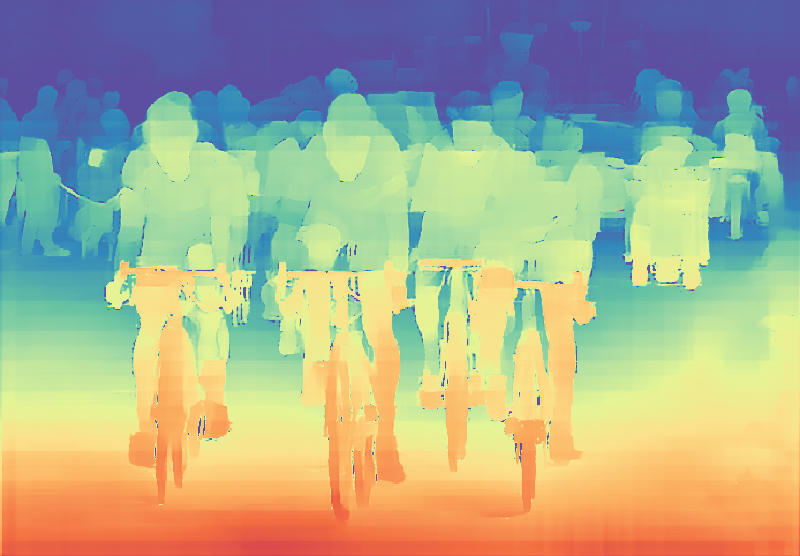
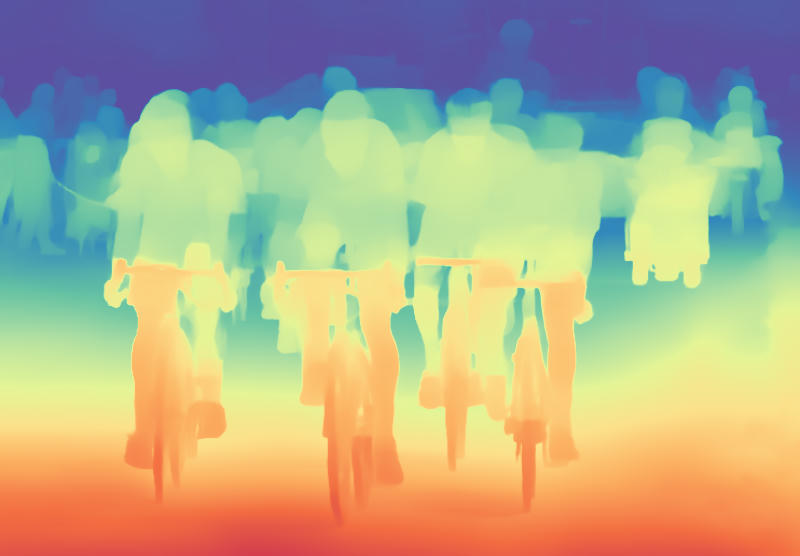
add bilinear upsample for CPU

diff --git a/candle-core/src/cpu_backend/mod.rs b/candle-core/src/cpu_backend/mod.rs
@@ -447,6 +447,70 @@ impl Map1 for UpsampleNearest2D {
     }
 }
 
+struct UpsampleBilinear2D(usize, usize, bool);
+
+
+impl Map1 for UpsampleBilinear2D {
+    fn f<T: WithDType>(&self, src: &[T], layout: &Layout) -> Result<Vec<T>> {
+        let (dst_h, dst_w) = (self.0, self.1);
+        let (b_sz, c, src_h, src_w) = layout.shape().dims4()?;
+        let stride = layout.stride();
+        let (stride_h, stride_w) = (stride[2], stride[3]);
+        let src_index = layout.start_offset();
+
+        let (scale_h, scale_w) = if self.2 {
+            ((src_h - 1) as f64 / (dst_h - 1) as f64, (src_w - 1) as f64 / (dst_w - 1) as f64)
+        } else {
+            (src_h as f64 / dst_h as f64, src_w as f64 / dst_w as f64)
+        };
+
+        let mut dst = vec![T::zero(); b_sz * c * dst_h * dst_w];
+
+        for b_idx in 0..b_sz {
+            let dst = &mut dst[b_idx * c * dst_h * dst_w..];
+            let src_index = src_index + b_idx * stride[0];
+            for c_idx in 0..c {
+                let dst = &mut dst[c_idx * dst_h * dst_w..];
+                let src_index = src_index + c_idx * stride[1];
+                for h_idx in 0..dst_h {
+                    for w_idx in 0..dst_w {
+                        let src_h_pos = if self.2 {
+                            (h_idx as f64 * scale_h).min(src_h as f64 - 1.0)
+                        } else {
+                            ((h_idx as f64 + 0.5) * scale_h - 0.5).min(src_h as f64 - 1.0).max(0.0)
+                        };
+                        let src_w_pos = if self.2 {
+                            (w_idx as f64 * scale_w).min(src_w as f64 - 1.0)
+                        } else {
+                            ((w_idx as f64 + 0.5) * scale_w - 0.5).min(src_w as f64 - 1.0).max(0.0)
+                        };
+
+                        let src_h_low = src_h_pos.floor() as usize;
+                        let src_w_low = src_w_pos.floor() as usize;
+                        let src_h_high = (src_h_low + 1).min(src_h - 1);
+                        let src_w_high = (src_w_low + 1).min(src_w - 1);
+
+                        let lh = src_h_pos - src_h_low as f64;
+                        let lw = src_w_pos - src_w_low as f64;
+                        let hh = 1.0 - lh;
+                        let hw = 1.0 - lw;
+
+                        let v1 = src[src_index + src_h_low * stride_h + src_w_low * stride_w] * T::from_f64(hh * hw);
+                        let v2 = src[src_index + src_h_low * stride_h + src_w_high * stride_w] * T::from_f64(hh * lw);
+                        let v3 = src[src_index + src_h_high * stride_h + src_w_low * stride_w] * T::from_f64(lh * hw);
+                        let v4 = src[src_index + src_h_high * stride_h + src_w_high * stride_w] * T::from_f64(lh * lw);
+
+                        dst[h_idx * dst_w + w_idx] = v1 + v2 + v3 + v4;
+                    }
+                }
+            }
+        }
+
+        Ok(dst)
+    }
+}
+
+
 struct Gather<'a, I: IntDType> {
     ids: &'a [I],
     ids_l: &'a Layout,
@@ -1932,6 +1996,10 @@ impl BackendStorage for CpuStorage {
 
     fn upsample_nearest2d(&self, layout: &Layout, h: usize, w: usize) -> Result<Self> {
         UpsampleNearest2D(h, w).map(self, layout)
+    }
+
+    fn upsample_bilinear2d(&self, layout: &Layout, h: usize, w: usize, align_corners: bool) -> Result<Self> {
+        UpsampleBilinear2D(h, w, align_corners).map(self, layout)
     }
 
     fn powf(&self, layout: &Layout, e: f64) -> Result<Self> {

diff --git a/candle-core/src/backprop.rs b/candle-core/src/backprop.rs
@@ -117,6 +117,7 @@ impl Tensor {
                     Op::Reshape(node)
                     | Op::UpsampleNearest1D { arg: node, .. }
                     | Op::UpsampleNearest2D { arg: node, .. }
+                    | Op::UpsampleBilinear2D { arg: node, .. }
                     | Op::AvgPool2D { arg: node, .. }
                     | Op::MaxPool2D { arg: node, .. }
                     | Op::Copy(node)
@@ -390,6 +391,29 @@ impl Tensor {
                         target_h,
                         target_w,
                     } => {
+                        let (_n, c, h, w) = arg.dims4()?;
+                        if target_h % h != 0 || target_w % w != 0 {
+                            crate::bail!("backward not supported for non integer upscaling factors")
+                        }
+                        let scale_h = target_h / h;
+                        let scale_w = target_w / w;
+
+                        if scale_h != scale_w {
+                            crate::bail!("backward not supported for non uniform upscaling factors")
+                        };
+                        let kernel =
+                            Tensor::ones((c, 1, scale_h, scale_w), arg.dtype(), arg.device())?;
+                        let conv_sum = grad.conv2d(&kernel, 0, scale_h, 1, c)?;
+                        let sum_grad = grads.or_insert(arg)?;
+                        *sum_grad = conv_sum;
+                    }
+                    Op::UpsampleBilinear2D {
+                        arg,
+                        target_h,
+                        target_w,
+                        align_corners,
+                    } => {
+                        // TODO verify
                         let (_n, c, h, w) = arg.dims4()?;
                         if target_h % h != 0 || target_w % w != 0 {
                             crate::bail!("backward not supported for non integer upscaling factors")

diff --git a/candle-core/src/tensor.rs b/candle-core/src/tensor.rs
@@ -1075,6 +1075,24 @@ impl Tensor {
         self.interpolate2d(target_h, target_w)
     }
 
+    /// Interpolate the input tensor to the `(target_h, target_w)` size, using bilinear interpolations
+    ///
+    /// The input tensor should have four dimensions, `(batch, channels, h, w)`, the returned
+    /// tensor also has four dimensions, `(batch, channels, target_h, target_w)`.
+    pub fn interpolate_bilinear2d(&self, target_h: usize, target_w: usize, align_corners: bool) -> Result<Self> {
+        let (n, c, _h, _w) = self.dims4()?;
+        let op = BackpropOp::new1(self, |arg| Op::UpsampleBilinear2D {
+            arg,
+            target_h,
+            target_w,
+            align_corners
+        });
+        let storage = self
+            .storage()
+            .upsample_bilinear2d(self.layout(), target_h, target_w, align_corners)?;
+        Ok(from_storage(storage, (n, c, target_h, target_w), op, false))
+    }
+
     /// 2D average pooling over an input tensor with multiple channels.
     ///
     /// The input tensor should have four dimensions, `(batch, channels, h, w)`, the returned

diff --git a/candle-core/src/storage.rs b/candle-core/src/storage.rs
@@ -561,6 +561,23 @@ impl Storage {
         }
     }
 
+    pub(crate) fn upsample_bilinear2d(&self, layout: &Layout, h: usize, w: usize, align_corners: bool) -> Result<Self> {
+        match self {
+            Storage::Cpu(storage) => {
+                let storage = storage.upsample_bilinear2d(layout, h, w, align_corners)?;
+                Ok(Self::Cpu(storage))
+            }
+            Self::Cuda(storage) => {
+                let storage = storage.upsample_bilinear2d(layout, h, w, align_corners)?;
+                Ok(Self::Cuda(storage))
+            }
+            Self::Metal(storage) => {
+                let storage = storage.upsample_bilinear2d(layout, h, w, align_corners)?;
+                Ok(Self::Metal(storage))
+            }
+        }
+    }
+
     pub(crate) fn where_cond(
         &self,
         layout: &Layout,

diff --git a/candle-core/src/cuda_backend/mod.rs b/candle-core/src/cuda_backend/mod.rs
@@ -845,6 +845,7 @@ impl Map1 for UpsampleNearest2D {
     }
 }
 
+
 struct WhereCond<'a>(&'a CudaStorage, &'a Layout);
 impl<'a> Map2 for WhereCond<'a> {
     fn f<T: DeviceRepr + WithDType + ValidAsZeroBits>(
@@ -1611,6 +1612,11 @@ impl BackendStorage for CudaStorage {
         let slice = UpsampleNearest2D(out_w, out_h).map(&self.slice, &device, l)?;
         Ok(Self { slice, device })
     }
+
+    fn upsample_bilinear2d(&self, _layout: &Layout, _h: usize, _w: usize, _align_corners: bool) -> Result<Self> {
+        crate::bail!("upsample_bilinear2d is not supported on cuda")
+    }
+
 
     fn index_select(&self, ids: &Self, l: &Layout, ids_l: &Layout, dim: usize) -> Result<Self> {
         let device = self.device().clone();

diff --git a/candle-transformers/src/models/depth_anything_v2.rs b/candle-transformers/src/models/depth_anything_v2.rs
@@ -227,7 +227,7 @@ impl Module for FeatureFusionBlock {
             let (_, _, h, w) = out.dims4()?;
             (h * 2, w * 2)
         };
-        let out = out.interpolate2d(target_height, target_width)?;
+        let out = out.interpolate_bilinear2d(target_height, target_width, true)?;
 
         self.output_conv.forward(&out)
     }
@@ -488,7 +488,7 @@ impl Module for DPTHead {
 
         let out = self.scratch.output_conv1.forward(&path1)?;
 
-        let out = out.interpolate2d(self.image_size.unwrap().0, self.image_size.unwrap().1)?;
+        let out = out.interpolate_bilinear2d(self.image_size.unwrap().0, self.image_size.unwrap().1, true)?;
 
         self.scratch.output_conv2.forward(&out)
     }

diff --git a/candle-core/src/backend.rs b/candle-core/src/backend.rs
@@ -67,6 +67,7 @@ pub trait BackendStorage: Sized {
     fn max_pool2d(&self, _: &Layout, _: (usize, usize), _: (usize, usize)) -> Result<Self>;
     fn upsample_nearest1d(&self, _: &Layout, _: usize) -> Result<Self>;
     fn upsample_nearest2d(&self, _: &Layout, _: usize, _: usize) -> Result<Self>;
+    fn upsample_bilinear2d(&self, _: &Layout, _: usize, _: usize, _: bool) -> Result<Self>;
 
     fn gather(&self, _: &Layout, _: &Self, _: &Layout, _: usize) -> Result<Self>;
     fn scatter_add(
@@ -111,6 +112,7 @@ pub trait BackendStorage: Sized {
         _src_offset: usize,
         _dst_offset: usize,
     ) -> Result<()>;
+
 }
 
 pub trait BackendDevice: Sized + std::fmt::Debug + Clone {

diff --git a/candle-core/src/metal_backend/mod.rs b/candle-core/src/metal_backend/mod.rs
@@ -1202,6 +1202,10 @@ impl BackendStorage for MetalStorage {
         Ok(Self::new(buffer, self.device.clone(), dst_el, self.dtype))
     }
 
+    fn upsample_bilinear2d(&self, _layout: &Layout, _h: usize, _w: usize, _align_corners: bool) -> Result<Self> {
+        crate::bail!("upsample_bilinear2d is not supported on metal")
+    }
+
     fn gather(&self, src_l: &Layout, ids: &Self, ids_l: &Layout, dim: usize) -> Result<Self> {
         if !ids_l.is_contiguous() {
             return Err(crate::Error::RequiresContiguous { op: "gather" }.bt());

diff --git a/candle-core/src/dummy_metal_backend.rs b/candle-core/src/dummy_metal_backend.rs
@@ -194,6 +194,10 @@ impl crate::backend::BackendStorage for MetalStorage {
     fn upsample_nearest2d(&self, _: &Layout, _: usize, _: usize) -> Result<Self> {
         Err(Error::NotCompiledWithMetalSupport)
     }
+
+    fn upsample_bilinear2d(&self, _: &Layout, _: usize, _: usize, _: bool) -> Result<Self> {
+        Err(Error::NotCompiledWithMetalSupport)
+    }
 }
 
 impl crate::backend::BackendDevice for MetalDevice {

diff --git a/candle-core/src/dummy_cuda_backend.rs b/candle-core/src/dummy_cuda_backend.rs
@@ -182,6 +182,10 @@ impl crate::backend::BackendStorage for CudaStorage {
     fn upsample_nearest2d(&self, _: &Layout, _: usize, _: usize) -> Result<Self> {
         Err(Error::NotCompiledWithCudaSupport)
     }
+
+    fn upsample_bilinear2d(&self, _: &Layout, _: usize, _: usize, _: bool) -> Result<Self> {
+        Err(Error::NotCompiledWithCudaSupport)
+    }
 }
 
 impl crate::backend::BackendDevice for CudaDevice {

diff --git a/candle-examples/examples/depth_anything_v2/image_ops.rs b/candle-examples/examples/depth_anything_v2/image_ops.rs
@@ -81,7 +81,7 @@ pub fn post_process_image(
     original_width: usize,
     color_map: bool,
 ) -> candle::Result<Tensor> {
-    let out = image.interpolate2d(original_height, original_width)?;
+    let out = image.interpolate_bilinear2d(original_height, original_width, true)?;
     let out = scale_image(&out)?;
 
     let out = if color_map {

diff --git a/candle-core/src/op.rs b/candle-core/src/op.rs
@@ -142,6 +142,12 @@ pub enum Op {
         target_h: usize,
         target_w: usize,
     },
+    UpsampleBilinear2D {
+        arg: Tensor,
+        target_h: usize,
+        target_w: usize,
+        align_corners: bool,
+    },
 
     Cat(Vec<Tensor>, usize),
 
